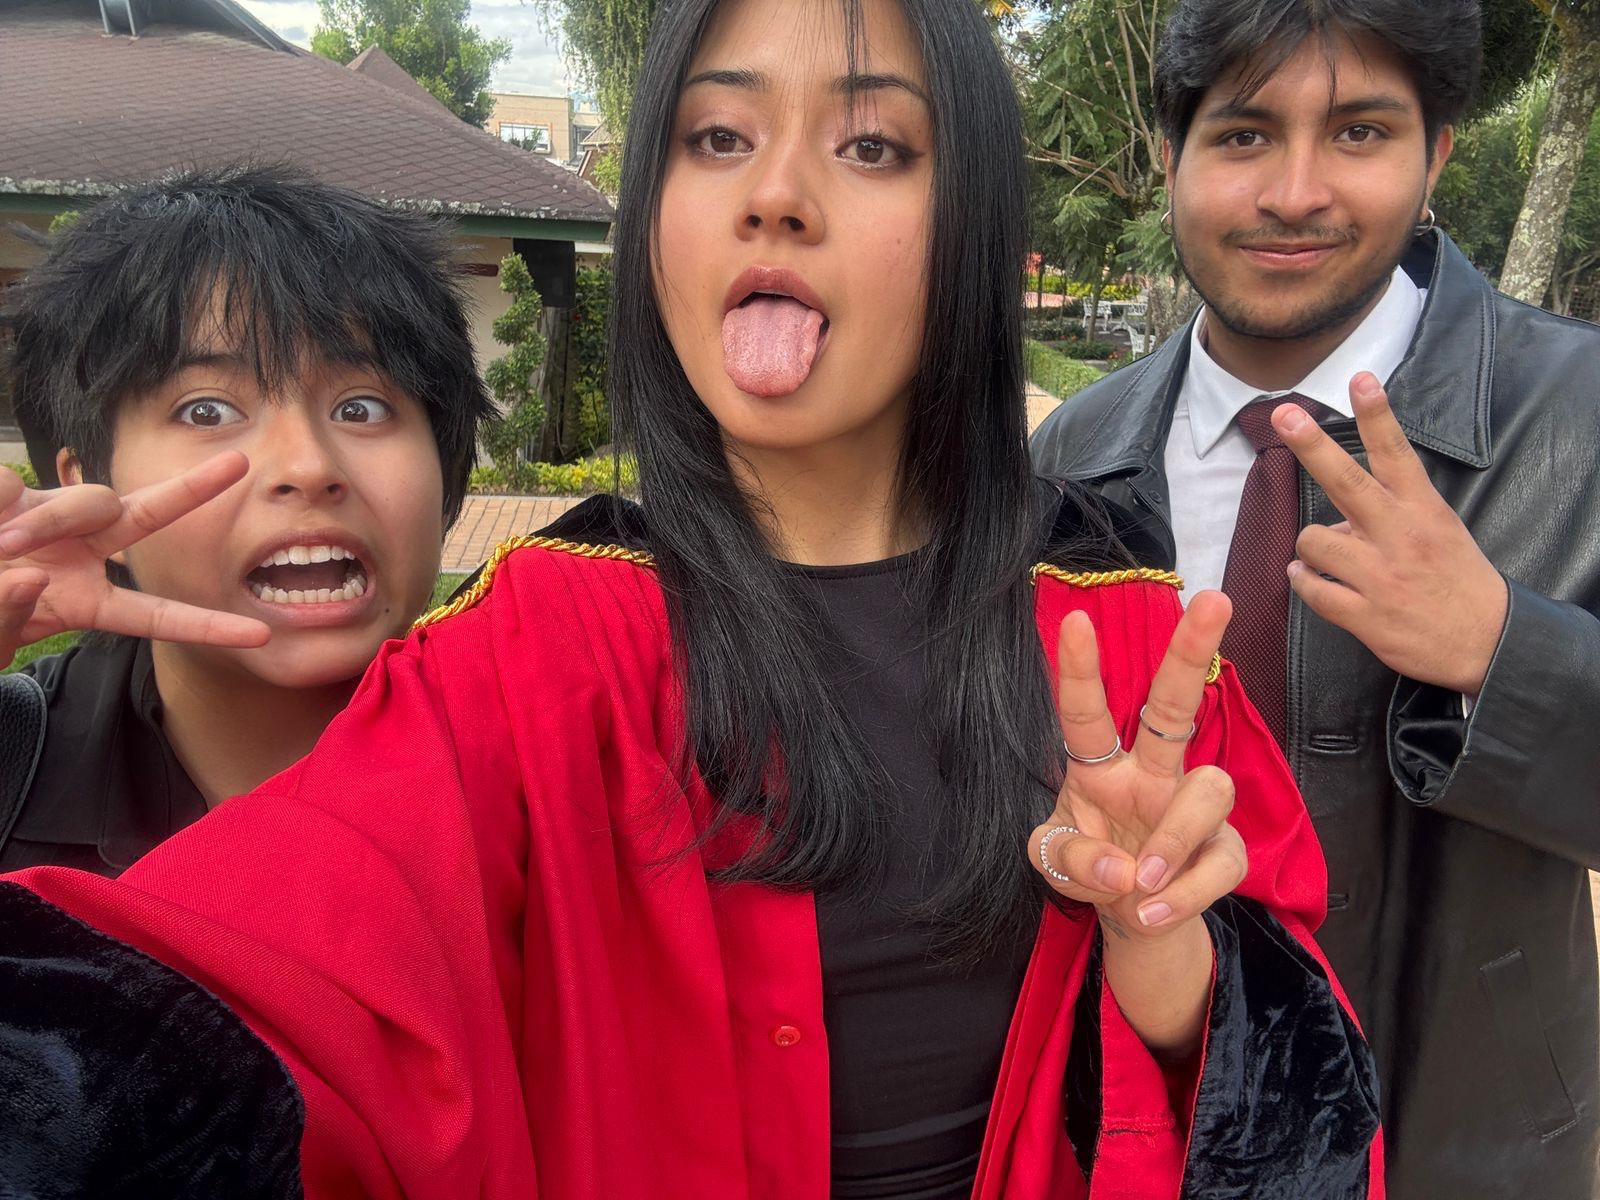
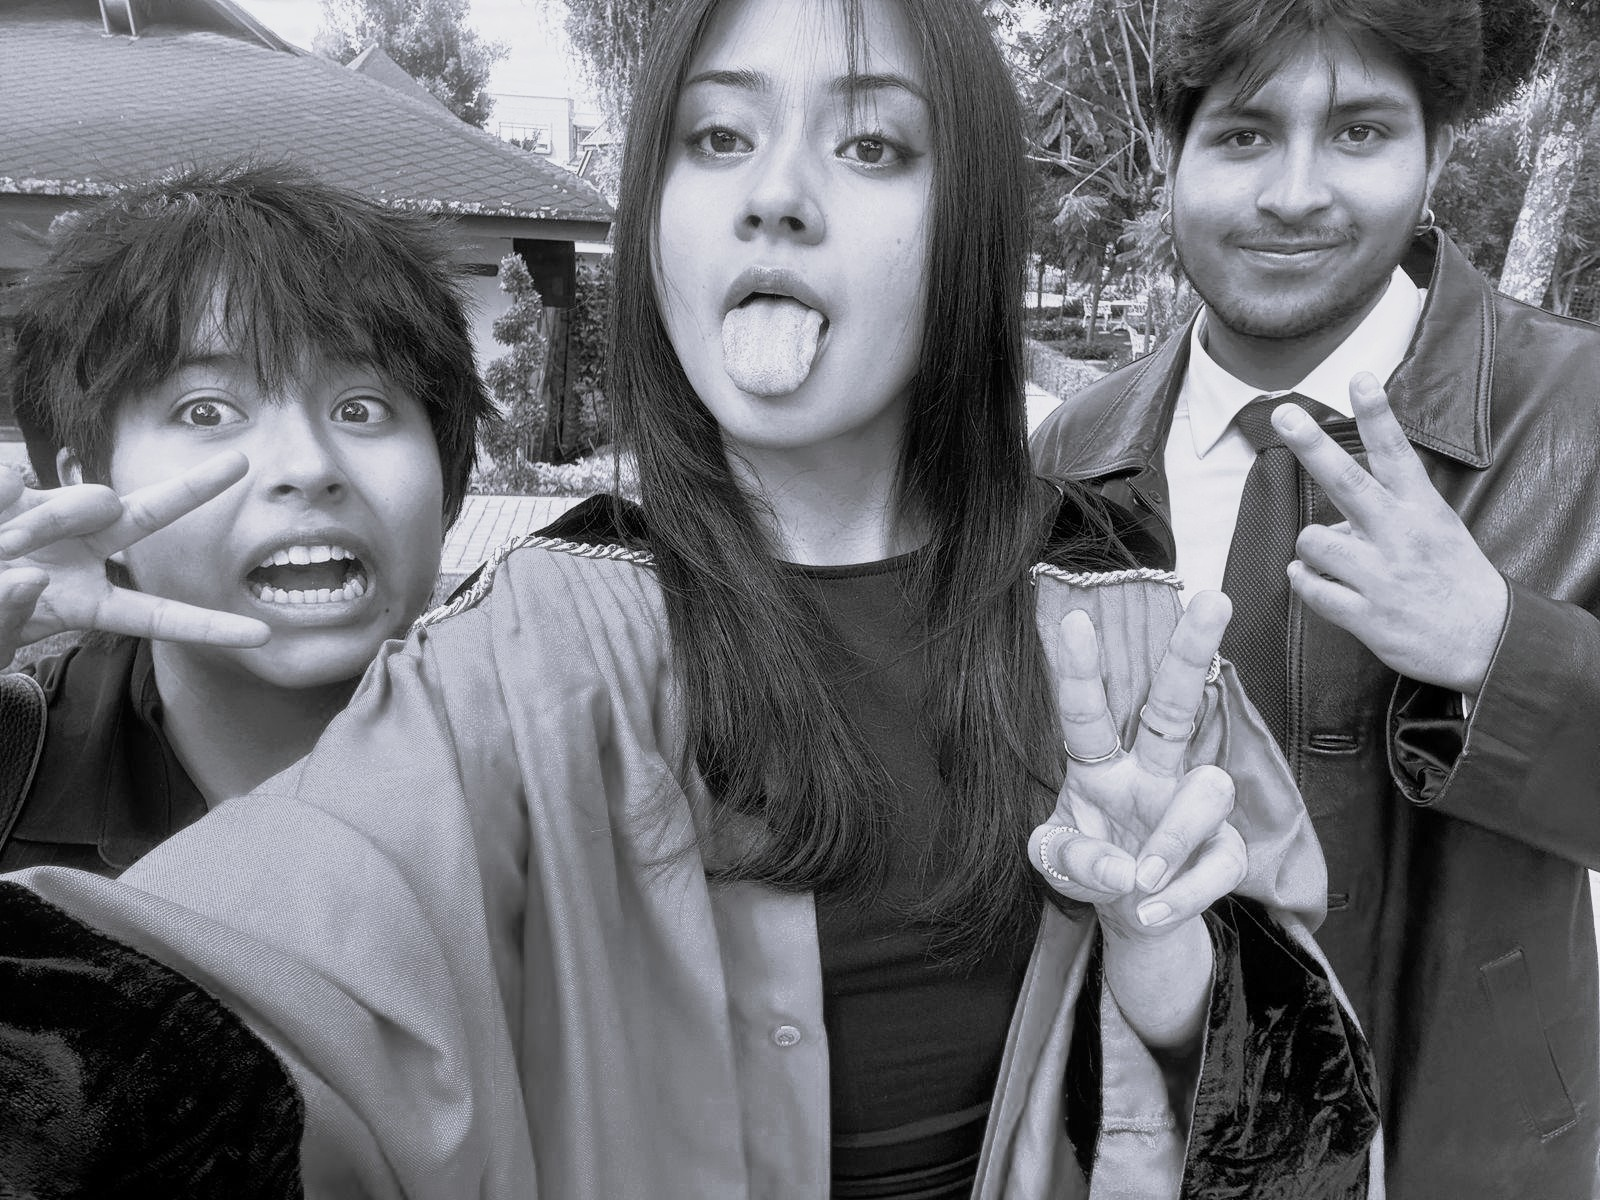
changes for assets, css, index and js

diff --git a/js/app.js b/js/app.js
@@ -1,89 +1,9 @@
-const scene = document.getElementById("scene");
-const bar = document.getElementById("bar");
-const btn = document.getElementById("btn");
-const hint = document.getElementById("hint");
-
-let audioCtx, analyser, data;
-let rafId = null;
-
-let isLit = true;
-
-// Tunables
-const THRESHOLD = 0.22;      // how strong the blow must be (0..1)
-const HOLD_MS = 220;         // blow must be above threshold for this long
-const SMOOTHING = 0.85;      // analyser smoothing
-
-let aboveSince = null;
-
-function turnOff() {
-  if (!isLit) return;
-  isLit = false;
-  scene.classList.add("off");
-  hint.textContent = "Nice! Tap the candle to relight.";
+function getId(id){
+  return document.getElementById(id);
 }
 
-function relight() {
-  isLit = true;
-  scene.classList.remove("off");
-  hint.textContent = "Blow into the mic again.";
-  aboveSince = null;
-}
 
-scene.addEventListener("click", () => {
-  if (!isLit) relight();
-});
+let dateID = document.getElementById("date");
 
-btn.addEventListener("click", async () => {
-  btn.disabled = true;
-  btn.textContent = "Mic enabled";
-  hint.textContent = "Listening… blow into the mic.";
-
-  try {
-    const stream = await navigator.mediaDevices.getUserMedia({ audio: true });
-
-    audioCtx = new (window.AudioContext || window.webkitAudioContext)();
-    const source = audioCtx.createMediaStreamSource(stream);
-
-    analyser = audioCtx.createAnalyser();
-    analyser.fftSize = 2048;
-    analyser.smoothingTimeConstant = SMOOTHING;
-
-    source.connect(analyser);
-    data = new Uint8Array(analyser.fftSize);
-
-    loop();
-  } catch (err) {
-    btn.disabled = false;
-    btn.textContent = "Enable Microphone";
-    hint.textContent = "Mic permission blocked. Use the fallback method (mouse/touch) instead.";
-    console.error(err);
-  }
-});
-
-function loop() {
-  analyser.getByteTimeDomainData(data);
-
-  // Compute RMS (volume)
-  let sum = 0;
-  for (let i = 0; i < data.length; i++) {
-    const v = (data[i] - 128) / 128; // [-1, 1]
-    sum += v * v;
-  }
-  const rms = Math.sqrt(sum / data.length); // 0..~1
-  const strength = Math.min(1, rms * 3.2);  // scale to be more “responsive”
-
-  bar.style.width = `${Math.round(strength * 100)}%`;
-
-  // Blow detection: strength must stay above THRESHOLD for HOLD_MS
-  const now = performance.now();
-  if (isLit && strength > THRESHOLD) {
-    if (aboveSince == null) aboveSince = now;
-    if (now - aboveSince > HOLD_MS) turnOff();
-  } else {
-    aboveSince = null;
-  }
-
-  rafId = requestAnimationFrame(loop);
-}
 
 

diff --git a/index.html b/index.html
@@ -9,17 +9,21 @@
 
 <body>
     <header class="site-header">
-        <nav class="nav-wrapper">
+        <nav>
 
             <div class="nav-left">
-                <a href="#" class="">Ana's &copy;</a>
-                <p id="date"></p>
+                <ul>
+                    <li><a href="#" class="">Ana's &copy;</a></li>
+                    <li><p id="date"></p></li>
+                </ul>
             </div>
 
             <div class="nav-right">
-                <button class="btn-black/white">(Optional Dark version)</button>
-                <li><a href="#">About</a></li>
-                <li><a href="#">Te quiero</a></li>
+                <button class="btn-black">(Optional Dark version)</button>
+                <ul>
+                    <li><a href="#">About</a></li>
+                    <li><a href="#">Te quiero</a></li>
+                </ul>
             </div>
         </nav>
     </header>
@@ -27,7 +31,14 @@
     <main>
         <h1 class="main-title">Ana's &copy;</h1>
         <p class="subtitle">Ana this is your website, I hope you enjoy it.</p>
-        
+
+        <section class="main-photo">
+            <img src="assets/foto2.jpeg" alt="Photo of Anita,Fa y Boli"> 
+        </section>
+
+        <p> /About you</p>
+        <p> Anita espero que estes muy bien, ando practicando codigo en web, y no se me ocurrio otra persona para hacerle un sitio, espero que tengas una bonita navidad y ano nuevo.Tranquila te voy a hacer mas cositas lindas despues, nada mejor que practicar con cosas que me inspiren como tu. Te quiere, Fa.</p>
+
     </main>
 
 

diff --git a/css/style.css b/css/style.css
@@ -1,6 +1,31 @@
-.nav-wrapper{
-    background-color: rgb(182, 176, 176);
+html,body{
+    margin: 0;
+    padding: 0;
+    font-family: 'Lucida Sans', 'Lucida Sans Regular', 'Lucida Grande', 'Lucida Sans Unicode', Geneva, Verdana, sans-serif;
+    
 }
+header{
+    padding: 0;
+}
+.site-header{
+    margin: 15px;
+    background-color: rgb(226, 219, 219);
+    border-radius: 5px;
+}
+
+.nav-left{
+    
+}
+
+.nav-left a, .nav-right a{
+    text-decoration: none;
+    color: inherit;
+}
+
+
+
+
+
 
 
 
